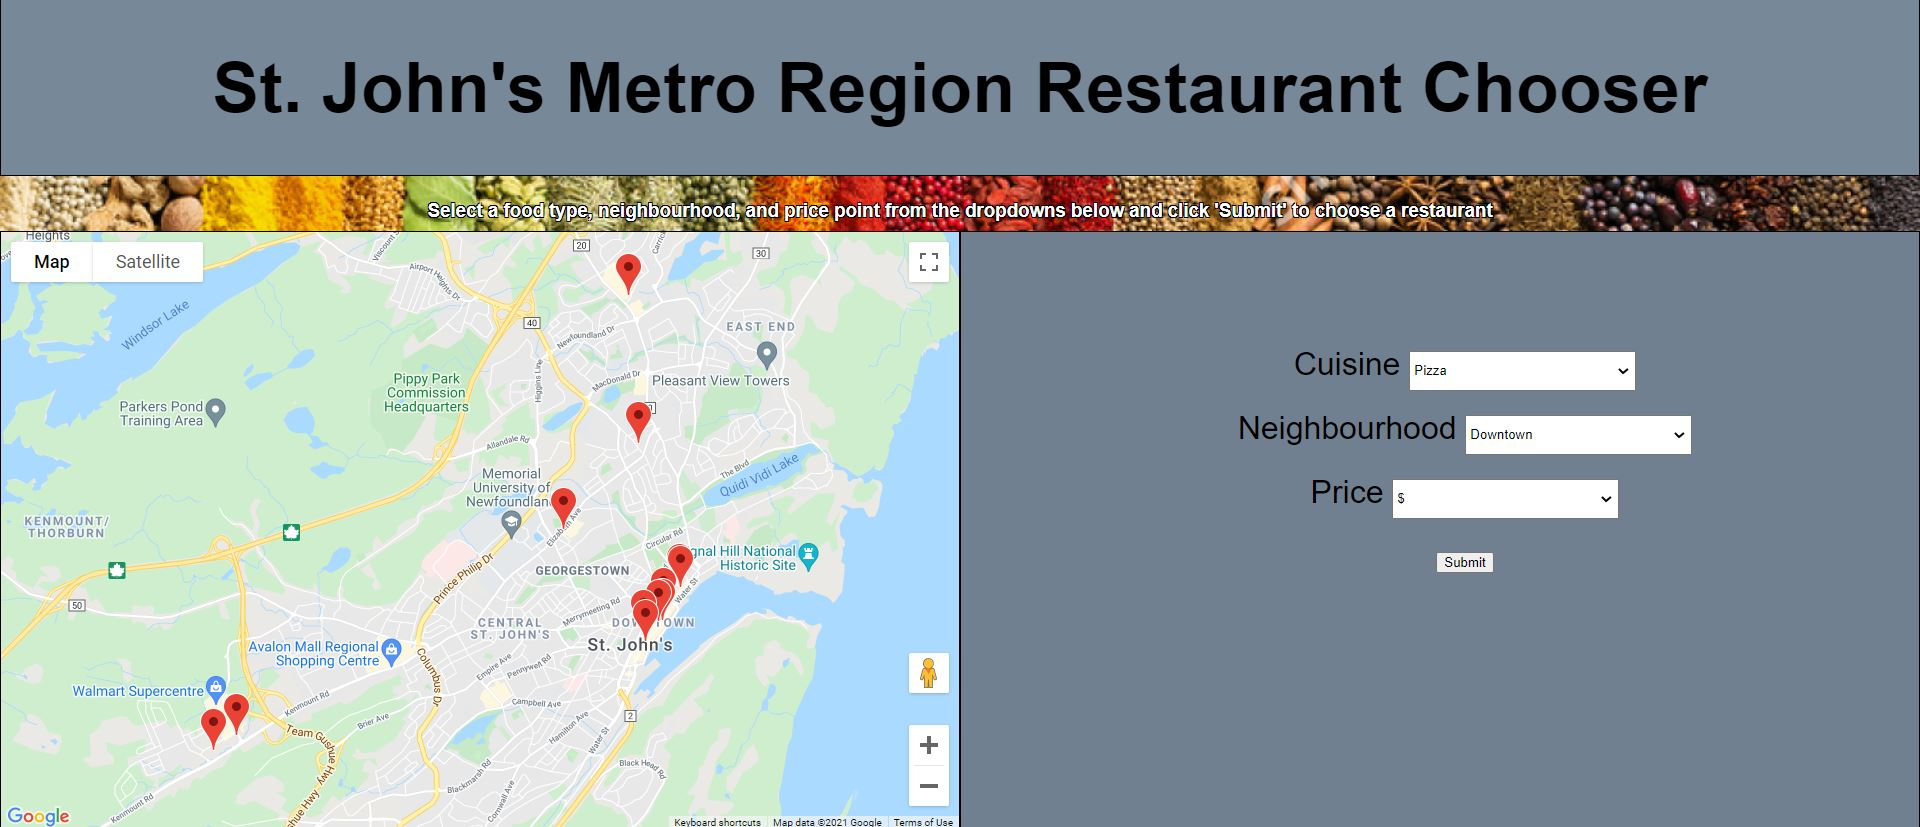
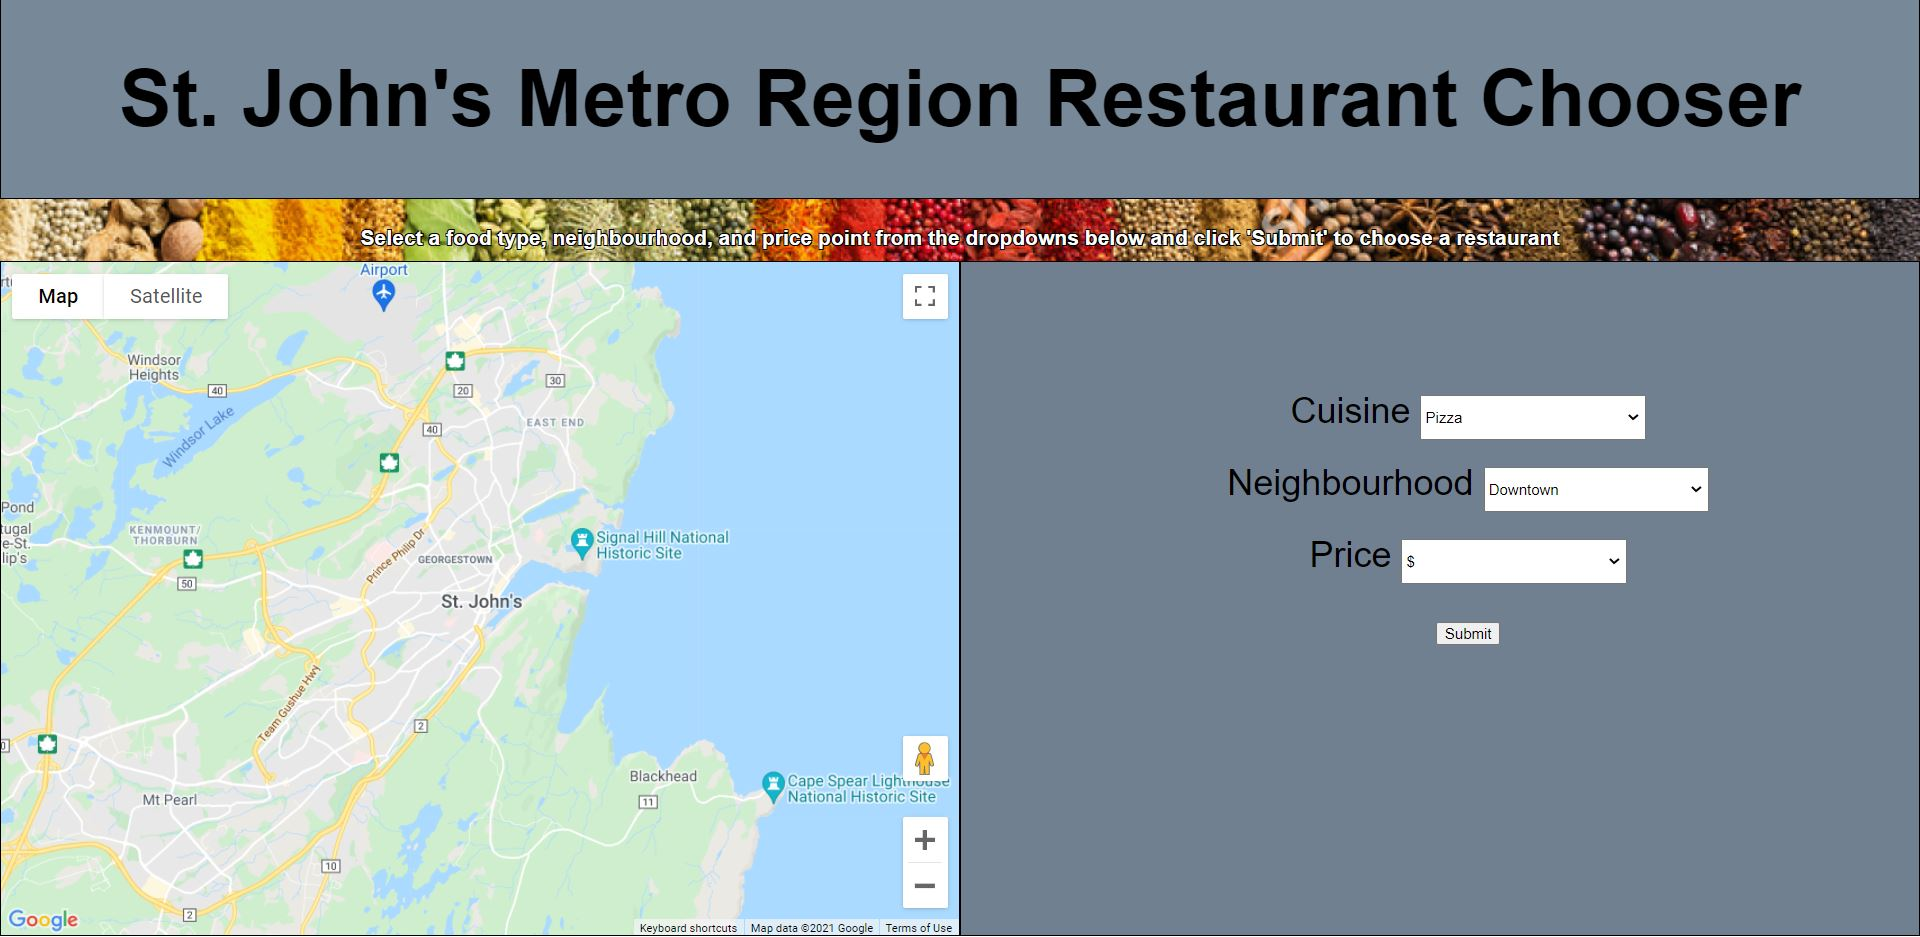
Updated readme file to include conditional map markers

diff --git a/README.md b/README.md
@@ -6,7 +6,7 @@ HTML, CSS, and JavaScript were used to create the page layout which has three ma
 
 1. The first section at the top is a box containing the project title ("St. John's Metro Region Restaurant Chooser").
 2. The second section is a box which contains user instuctions on how to use the application.
-3. Finally the third section is a box which is split in two. The left side contains a Google Map with markers for each restaurant included in my project using the Google Maps API. Due to privacy/security concerns, I have chosen to exclude my Google Maps API key from my public GitHub repository. The code contained in this repositiory will not load the map portion of my project correctly, but when the valid API key is used it resembles the image below. The right side contains a form which allows the user to select from a drop-down menu for cuisine type, neighbourhood, and price point.
+3. Finally the third section is a box which is split in two. The left side contains a Google Map with conditional markers for each restaurant included in my project using the Google Maps API. Due to privacy/security concerns, I have chosen to exclude my Google Maps API key from my public GitHub repository. The code contained in this repositiory will not load the map portion of my project correctly, but when the valid API key is used it resembles the image below. The right side contains a form which allows the user to select from a drop-down menu for cuisine type, neighbourhood, and price point.
 
 ![alt text](https://github.com/kbaillieul/RestaurantChooser/blob/master/Capture.JPG?raw=true)
 
@@ -15,5 +15,6 @@ How it Works:
 1. The user will select a cuisine type (Pizza, Mexican, or Sushi), neighbourhood (Downtown, East End, or West End), and price point ($, $$, or $$$) then clicks the "Submit" button.
 2. JavaScript is used to loop through 15 different restaurant variables that have their name, cuisine type, neighbourhood, and price point listed in arrays then record the restaurants which meet all the users criteria.
 3. A pop-up window will then be displayed to indicate the restaurant(s) that meet the users selected criteria. If no restaurants meet the user's selected criteria, a pop-up window will be displayed to indicate that no restaurants meet their chosen criteria.
-
-![alt text](https://github.com/kbaillieul/RestaurantChooser/blob/master/Capture2.JPG?raw=true)
+   ![alt text](https://github.com/kbaillieul/RestaurantChooser/blob/master/Capture2.JPG?raw=true)
+4. Finally, the Google Map will display the location of the restaurant(s) that meet the user's criteria using locational markers.
+   ![alt text](https://github.com/kbaillieul/RestaurantChooser/blob/master/Capture3.JPG?raw=true)
